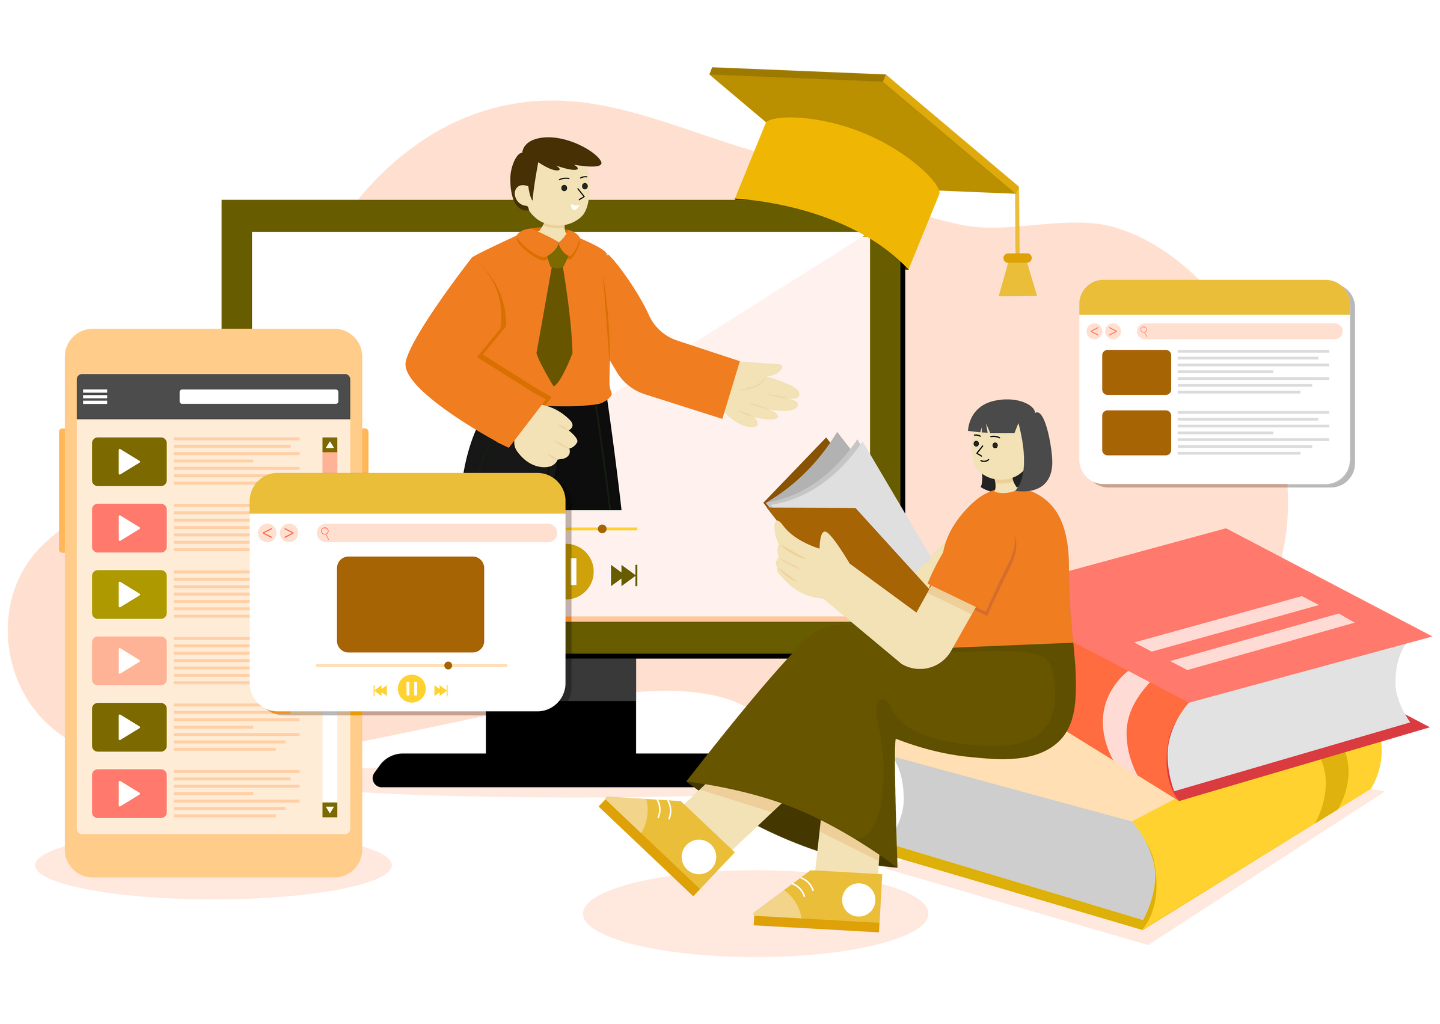
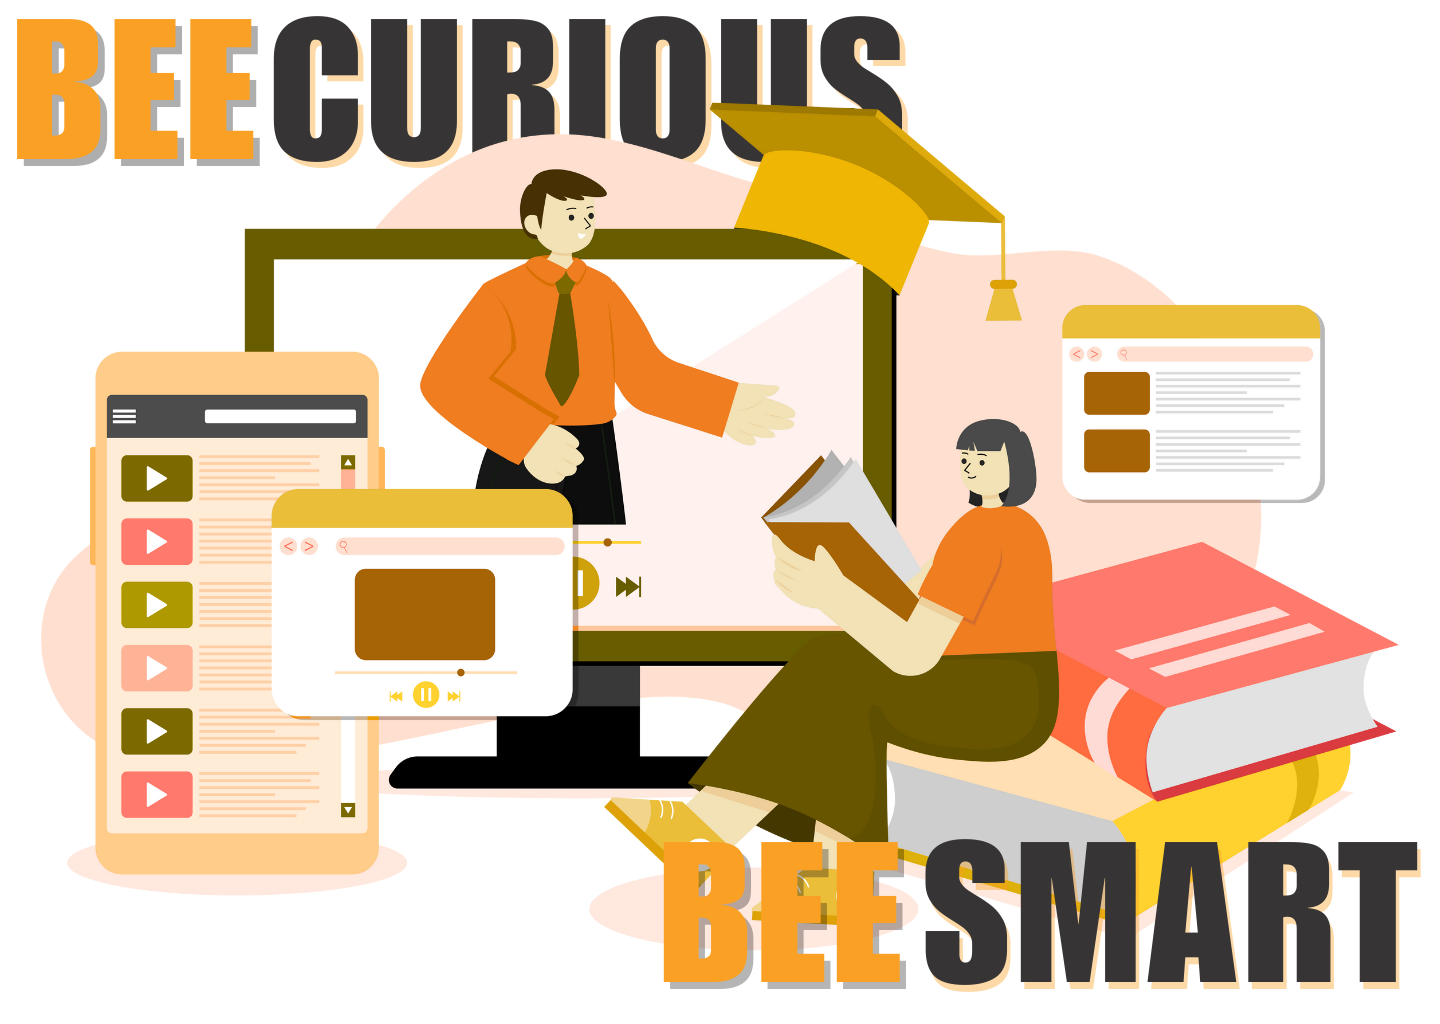
register page change theme

diff --git a/resources/views/auth/register.blade.php b/resources/views/auth/register.blade.php
@@ -1,14 +1,14 @@
 <x-layout :title="'Register'" :header="false">
     <h1></h1>
-    <div class="h-auto max-w-5xl flex">
+    <div class="h-auto max-w-7xl flex space-x-10">
         <!-- Left Panel - Register Form -->
-        <div class="w-full lg:w-[40%] flex items-center justify-center p-8 shadow-lg border border-gray-200 rounded-2xl">
+        <div class="bg-white w-full lg:w-[35%] flex items-center justify-center p-8 shadow-lg border border-gray-200 rounded-2xl">
             <div class="max-w-md w-full">
                 <!-- Header -->
                 <div class="text-center mb-8">
-                    <h1 class="text-xl mb-5">Logo Wala pa</h1>
+                    <img src="{{ asset('images/logo.png') }}" alt="Logo" class="w-24 mx-auto">
                     <h1 class="text-3xl font-bold text-gray-900 mb-2">Create your account</h1>
-                    <p class="text-gray-600 text-sm">Join <b>ヨルシカ's</b> learning app and get started for free.</p>
+                    <p class="text-gray-600 text-sm">Join <b>BeeCourse's</b> learning app and get started for free.</p>
                 </div>
 
                 <!-- Register Form -->
@@ -22,7 +22,7 @@
                             name="name"
                             placeholder="Name"
                             value="{{ old('name') }}"
-                            class="w-full px-4 py-4 bg-gray-50 border {{ $errors->has('name') ? 'border-red-500' : 'border-gray-200' }} rounded-2xl focus:outline-none focus:ring-2 focus:ring-[#35b5ac] focus:border-transparent transition-all duration-200"
+                            class="w-full px-4 py-4 bg-gray-50 border {{ $errors->has('name') ? 'border-red-500' : 'border-gray-200' }} rounded-2xl focus:outline-none focus:ring-2 focus:ring-[#faa125] focus:border-transparent transition-all duration-200"
                             required
                             autocomplete="name"
                         >
@@ -38,7 +38,7 @@
                             name="email"
                             placeholder="Email"
                             value="{{ old('email') }}"
-                            class="w-full px-4 py-4 bg-gray-50 border {{ $errors->has('email') ? 'border-red-500' : 'border-gray-200' }} rounded-2xl focus:outline-none focus:ring-2 focus:ring-[#35b5ac] focus:border-transparent transition-all duration-200"
+                            class="w-full px-4 py-4 bg-gray-50 border {{ $errors->has('email') ? 'border-red-500' : 'border-gray-200' }} rounded-2xl focus:outline-none focus:ring-2 focus:ring-[#faa125] focus:border-transparent transition-all duration-200"
                             required
                             autocomplete="username"
                         >
@@ -54,7 +54,7 @@
                             name="password"
                             id="password"
                             placeholder="Password"
-                            class="w-full px-4 py-4 bg-gray-50 border {{ $errors->has('password') ? 'border-red-500' : 'border-gray-200' }} rounded-2xl focus:outline-none focus:ring-2 focus:ring-[#35b5ac] focus:border-transparent transition-all duration-200 pr-12"
+                            class="w-full px-4 py-4 bg-gray-50 border {{ $errors->has('password') ? 'border-red-500' : 'border-gray-200' }} rounded-2xl focus:outline-none focus:ring-2 focus:ring-[#faa125] focus:border-transparent transition-all duration-200 pr-12"
                             required
                             autocomplete="new-password"
                         >
@@ -73,7 +73,7 @@
                             name="password_confirmation"
                             id="password_confirmation"
                             placeholder="Confirm Password"
-                            class="w-full px-4 py-4 bg-gray-50 border {{ $errors->has('password_confirmation') ? 'border-red-500' : 'border-gray-200' }} rounded-2xl focus:outline-none focus:ring-2 focus:ring-[#35b5ac] focus:border-transparent transition-all duration-200 pr-12"
+                            class="w-full px-4 py-4 bg-gray-50 border {{ $errors->has('password_confirmation') ? 'border-red-500' : 'border-gray-200' }} rounded-2xl focus:outline-none focus:ring-2 focus:ring-[#faa125] focus:border-transparent transition-all duration-200 pr-12"
                             required
                             autocomplete="new-password"
                         >
@@ -85,7 +85,7 @@
                     <!-- Submit -->
                     <button
                         type="submit"
-                        class="w-full bg-[#35b5ac] text-white py-4 rounded-2xl font-semibold hover:bg-[#35b5ac]/80 transition-colors duration-200 shadow-lg disabled:opacity-70 disabled:cursor-not-allowed"
+                        class="w-full bg-[#faa125] text-white py-4 rounded-2xl font-semibold hover:bg-[#faa125]/80 transition-colors duration-200 shadow-lg disabled:opacity-70 disabled:cursor-not-allowed"
                         x-bind:disabled="loading"
                     >
                         <span x-show="!loading">Register</span>
@@ -102,7 +102,7 @@
                     <div class="text-center text-sm mt-6">
                         <p class="text-gray-600">
                             Already registered?
-                            <a href="{{ route('welcome') }}" class="text-[#35b5ac] hover:text-[#35b5ac]/80 font-semibold transition-colors">Log in</a>
+                            <a href="{{ route('welcome') }}" class="text-[#faa125] hover:text-[#faa125]/80 font-semibold transition-colors">Log in</a>
                         </p>
                     </div>
                 </form>
@@ -110,7 +110,7 @@
         </div>
 
         <!-- Right Panel - Image -->
-        <div class="hidden lg:flex w-[60%] items-center justify-center ">
+        <div class="hidden lg:flex w-[65%] items-center justify-center ">
             <img src="{{ asset('images/welcomeImage.png') }}" alt="Logo" class="scale-100">
         </div>
     </div>

diff --git a/resources/views/welcome.blade.php b/resources/views/welcome.blade.php
@@ -14,7 +14,7 @@
                 <!-- Header -->
                 <div class="text-center mb-8">
                     <img src="{{ asset('images/logo.png') }}" alt="Logo" class="w-24 mx-auto">
-                    <h1 class="text-3xl font-bold text-gray-900 mb-2">Welcome back!</h1>
+                    <h1 class="mt-2 text-3xl font-bold text-gray-900 mb-2">Welcome to <span class="text-[#faa125]">Bee</span>Course!</h1>
                     <p class="text-left text-gray-600 text-sm">Simplify your workflow and boost your productivity with <b>BeeCourse's</b> learning app. Get started for free.</p>
                 </div>
 
